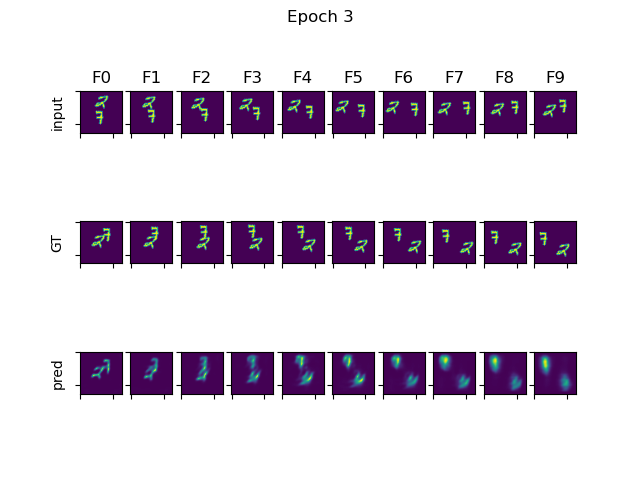
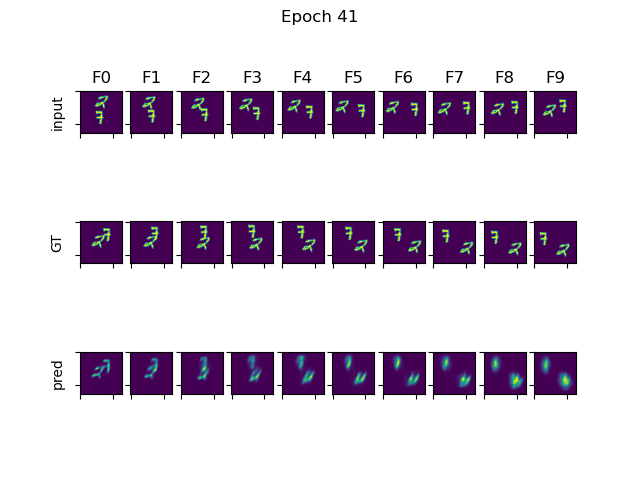
simvp updates

diff --git a/gan/models/simvp/simvp/model.py b/gan/models/simvp/simvp/model.py
@@ -85,7 +85,7 @@ class SimVP(nn.Module):
         self.enc = Encoder(C, hid_S, N_S)
         self.hid = Mid_Xnet(T * hid_S, hid_T, N_T, incep_ker, groups)
         self.embedding = nn.Embedding(T * 2 + 5, (self.params.imsize // 4) ** 2)
-        self.dec = Decoder(hid_S, hid_D, hid_T, C, N_S, skip_hidden_rnn=skip_hidden_rnn,dropout=0.5)
+        self.dec = Decoder(hid_S, hid_D, hid_T, C, N_S, skip_hidden_rnn=skip_hidden_rnn,dropout=False)
 
         self.skip_hidden_rnn = skip_hidden_rnn
 
